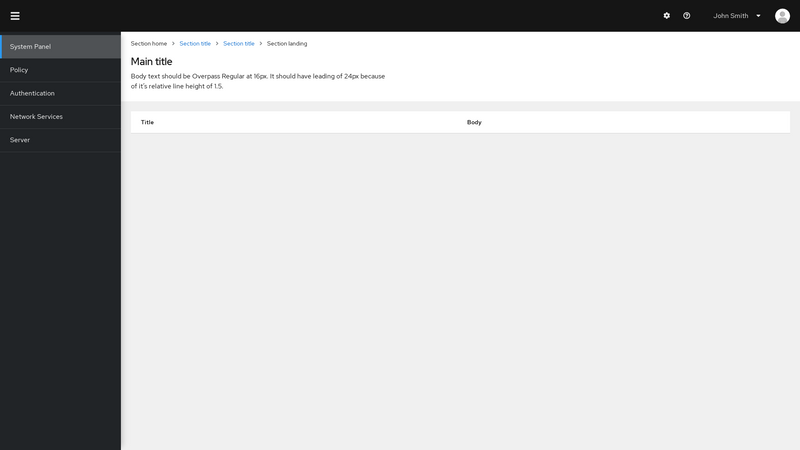
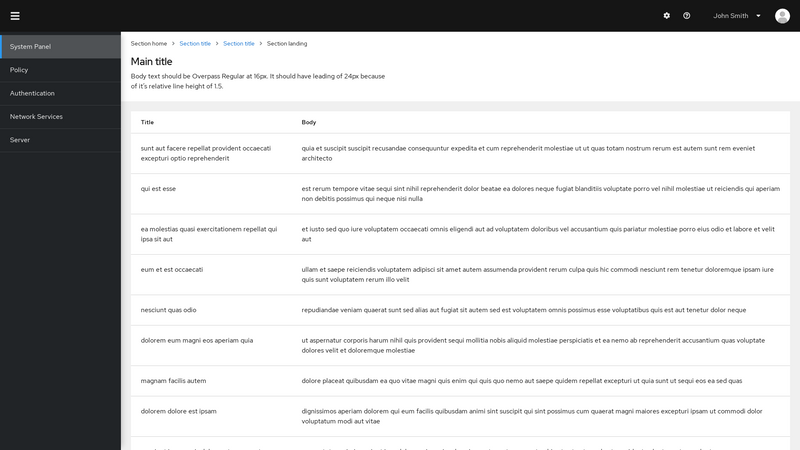
fix screenshot writing

diff --git a/packages/theme-patternfly-org/scripts/writeScreenshots.js b/packages/theme-patternfly-org/scripts/writeScreenshots.js
@@ -3,17 +3,12 @@ const os = require('os');
 const fs = require('fs-extra');
 const { Cluster } = require('puppeteer-cluster');
 const sharp = require('sharp');
-const { fullscreenRoutes } = require(path.join(process.cwd(), 'src/routes.js'));
+const { fullscreenRoutes } = require('../routes.js');
 
-const urlPrefix = process.argv[2];
-if (!urlPrefix) {
-  console.error('Usage: node writeSreenshots <http://url-prefix>');
-  process.exit(1);
-}
 const screenshotBase = path.join(process.cwd(), 'src/generated');
 sharp.cache(false);
 
-async function writeScreenshot({ page, data: { title, url } }) {
+async function writeScreenshot({ page, data: { url, urlPrefix } }) {
   // Default viewport is 800x600
   await page.setViewport({
     width: 1920,
@@ -21,12 +16,15 @@ async function writeScreenshot({ page, data: { title, url } }) {
   });
   await page.goto(url);
   await page.waitForSelector('.pf-u-h-100');
+  // Wait extra 300ms
+  await page.waitFor(300);
   const outfile = path.join(
     screenshotBase,
     url.replace(`${urlPrefix}/`, '') + '.png'
   );
   fs.ensureDirSync(path.dirname(outfile));
   await page.screenshot({ path: outfile });
+  console.log(path.relative(process.cwd(), outfile));
   // Resize since max-width allowed for thumbnails in CSS is 800px
   let buffer = await sharp(outfile)
     .resize(800, 450)
@@ -35,7 +33,7 @@ async function writeScreenshot({ page, data: { title, url } }) {
   await sharp(buffer).toFile(outfile);
 }
 
-async function writeScreenshots() {
+async function writeScreenshots({ urlPrefix }) {
   const cluster = await Cluster.launch({
     concurrency: Cluster.CONCURRENCY_CONTEXT,
     maxConcurrency: os.cpus().length,
@@ -50,9 +48,9 @@ async function writeScreenshots() {
   // Add some pages to queue
   Object.entries(fullscreenRoutes)
     .filter(([, { isFullscreenOnly }]) => isFullscreenOnly)
-    .forEach(([url, { title }]) => cluster.queue({
+    .forEach(([url,]) => cluster.queue({
       url: `${urlPrefix}${url}`,
-      title
+      urlPrefix
     }));
 
   // Shutdown after everything is done
@@ -60,4 +58,6 @@ async function writeScreenshots() {
   await cluster.close();
 }
 
-writeScreenshots();
+module.exports = {
+  writeScreenshots
+}

diff --git a/packages/theme-patternfly-org/scripts/cli/cli.js b/packages/theme-patternfly-org/scripts/cli/cli.js
@@ -5,7 +5,8 @@ const program = require('commander');
 const { start } = require('./start');
 const clientConfig = require('../webpack/webpack.client.config');
 const { version } = require('../../package.json');
-const { sourceMD, sourceProps, writeIndex, watchMD } = require('theme-patternfly-org/scripts/md/parseMD');
+const { sourceMD, sourceProps, writeIndex, watchMD } = require('../md/parseMD');
+const { writeScreenshots } = require('../writeScreenshots');
 
 function getConfig(options) {
   return require(path.join(process.cwd(), options.parent.config));
@@ -91,5 +92,12 @@ program
       await execFile('buildClient.js', [JSON.stringify(config)]);
     }
   });
+
+program
+  .command('screenshots')
+  .option('-u, --urlPrefix', 'where fullscreen pages are hosted', 'http://localhost:5000/v4')
+  .description('updates screenshots for generated components')
+  .action(writeScreenshots);
+
 
 program.parse(process.argv);
